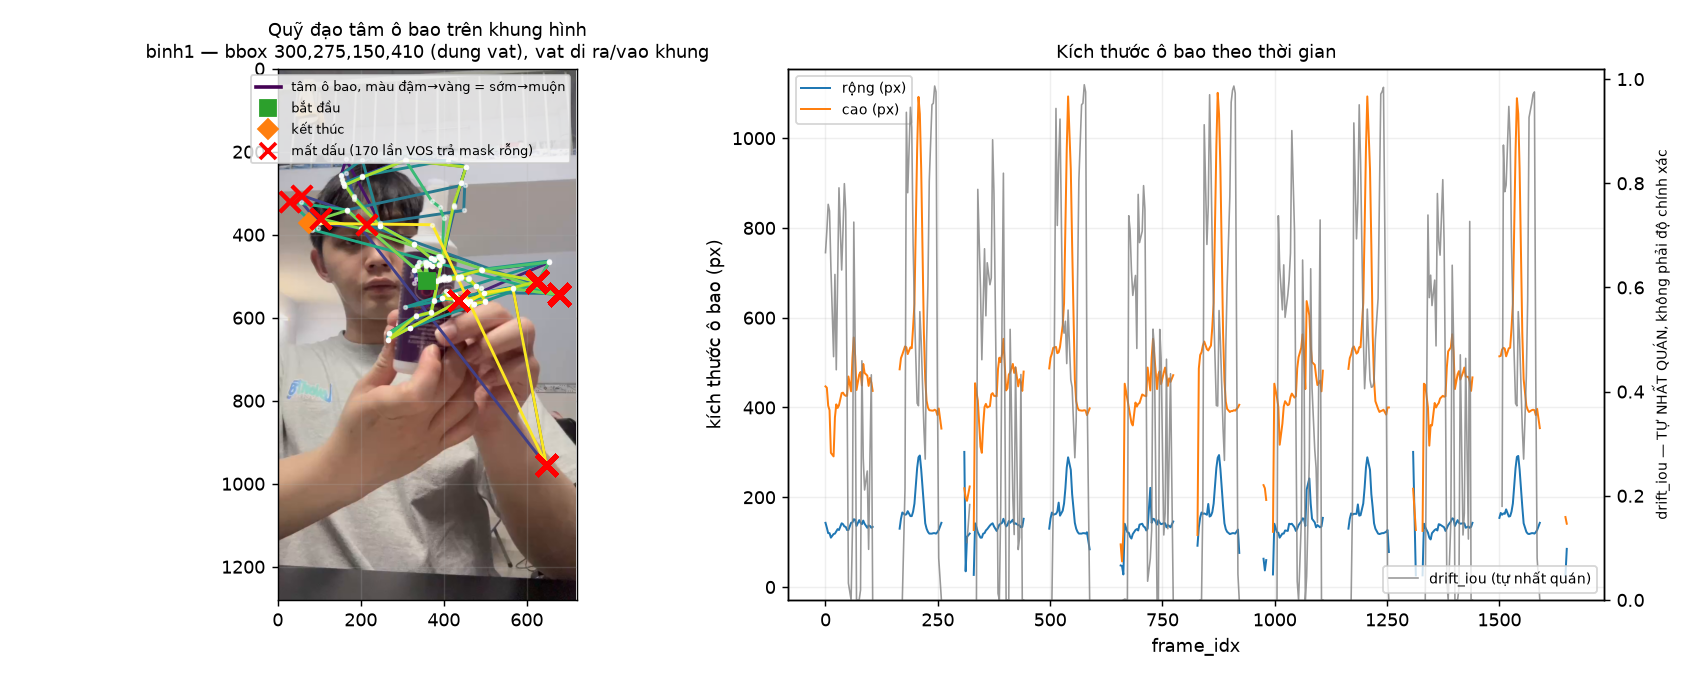
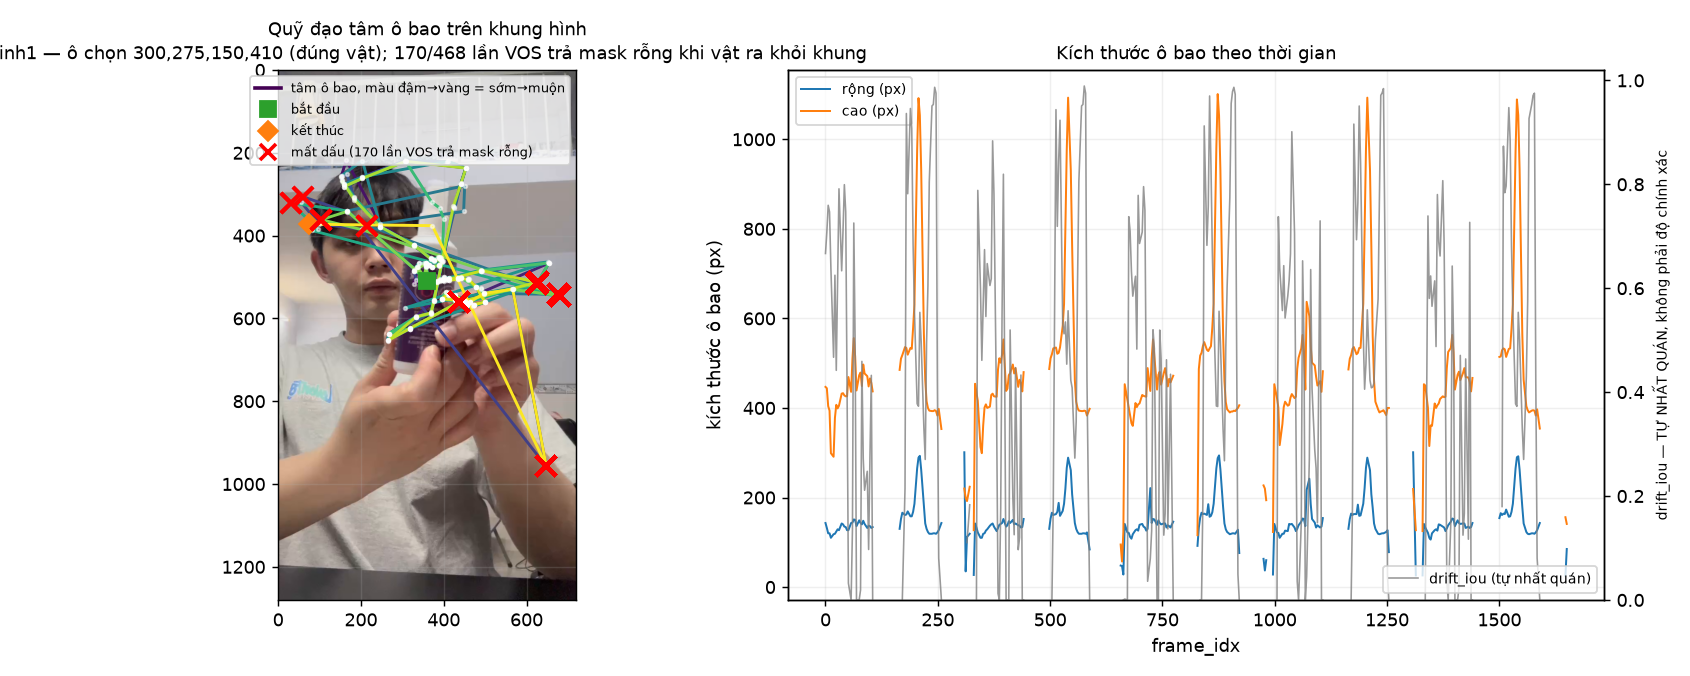
fix(media): _dirty_code không strip khối git status (mất dấu cách đầu dòng ⇒ media tự khai 'cây bẩn')
Bug thật: ' M docs/media/x.png'.strip() → 'M docs/...' ⇒ cắt line[3:] lệch 1 ký tự ⇒ docs/media
không được miễn trừ. Tách hàm thuần _dirty_code() + 4 test.

diff --git a/scripts/make_trajectory_media.py b/scripts/make_trajectory_media.py
@@ -223,6 +223,22 @@ def _canh_bao_bbox(traj: dict, expect: str) -> None:
         print(f"[traj] ô bao khớp --expect-bbox (lệch {lech * 100:.0f}%)")
 
 
+def _dirty_code(status_porcelain: str) -> bool:
+    """Có thay đổi NGOÀI `data/` và `docs/media/` không (= code bẩn, số không tái lập)?
+
+    BUG ĐÃ GẶP: `.strip()` trên cả khối `git status` làm mất **dấu cách đầu dòng** của dòng đầu tiên
+    (`" M docs/…"` → `"M docs/…"`) ⇒ cắt `line[3:]` lệch một ký tự ⇒ `docs/media/...` không được
+    miễn trừ và mọi ảnh media tự khai "cây bẩn". Vì vậy đầu vào ở đây KHÔNG được strip.
+    """
+    for line in status_porcelain.splitlines():
+        if not line.strip():
+            continue
+        path = line[3:] if len(line) > 3 else ""
+        if not path.startswith(("data/", "docs/media/")):
+            return True
+    return False
+
+
 def provenance(csv_path, clip_path, out_path, title: str, bbox_dau) -> dict:
     """Metadata đi kèm ảnh: **ảnh không có provenance thì không kiểm lại được** (và một ảnh sai chú
     thích sống lâu hơn mọi lời giải thích).
@@ -245,20 +261,17 @@ def provenance(csv_path, clip_path, out_path, title: str, bbox_dau) -> dict:
     def _git(args):
         try:
             return subprocess.run(["git", *args], cwd=str(_REPO_ROOT), capture_output=True,
-                                  text=True, check=True).stdout.strip()
+                                  text=True, check=True).stdout
         except Exception:                        # noqa: BLE001 — provenance không được ném
             return None
 
     rev = _git(["rev-parse", "HEAD"])
     changed = _git(["status", "--porcelain"]) or ""
-    # `data/` và `docs/media/` là ĐẦU RA của dụng cụ đo, không phải code: tính chúng là "bẩn" thì
-    # mỗi lần sinh lại ảnh là provenance tự tố cáo mình (vòng lặp không lối thoát).
-    dirty_code = any(not line[3:].startswith(("data/", "docs/media/"))
-                     for line in changed.splitlines())
+    dirty_code = _dirty_code(changed)
     return {
         "do_luc": __import__("datetime").datetime.now().isoformat(timespec="seconds"),
         "lenh": " ".join(sys.argv),
-        "git_rev": rev, "git_dirty_code": dirty_code,
+        "git_rev": (rev or "").strip() or None, "git_dirty_code": dirty_code,
         "csv": str(csv_path), "csv_sha256_16": _sha(csv_path),
         "clip": str(clip_path) if clip_path else None,
         "clip_sha256_16": _sha(clip_path),

diff --git a/tests/test_make_trajectory_media.py b/tests/test_make_trajectory_media.py
@@ -177,3 +177,21 @@ class TestProvenance:
         payload = _json.loads(meta.read_text(encoding="utf-8"))
         assert payload["bbox_dong_dau_x1y1x2y2"] == [288, 287, 431, 734]
         assert payload["anh"].endswith("traj.png")
+
+
+class TestDirtyCode:
+    """Bug thật 14-11: `.strip()` cả khối `git status` làm mất dấu cách đầu dòng ⇒ `docs/media/` không
+    được miễn trừ ⇒ mọi ảnh media tự khai "cây bẩn"."""
+
+    def test_dong_dau_co_dau_cach_van_duoc_mien_tru(self):
+        assert tm._dirty_code(" M docs/media/traj/a.png\n M data/x.json\n") is False
+
+    def test_code_ban_thi_true(self):
+        assert tm._dirty_code(" M docs/media/a.png\n M src/live_tracking.py\n") is True
+
+    def test_untracked_trong_data_va_media_duoc_mien_tru(self):
+        assert tm._dirty_code("?? data/new.json\n?? docs/media/traj/b.json\n") is False
+
+    def test_cay_sach(self):
+        assert tm._dirty_code("") is False
+        assert tm._dirty_code("\n") is False
